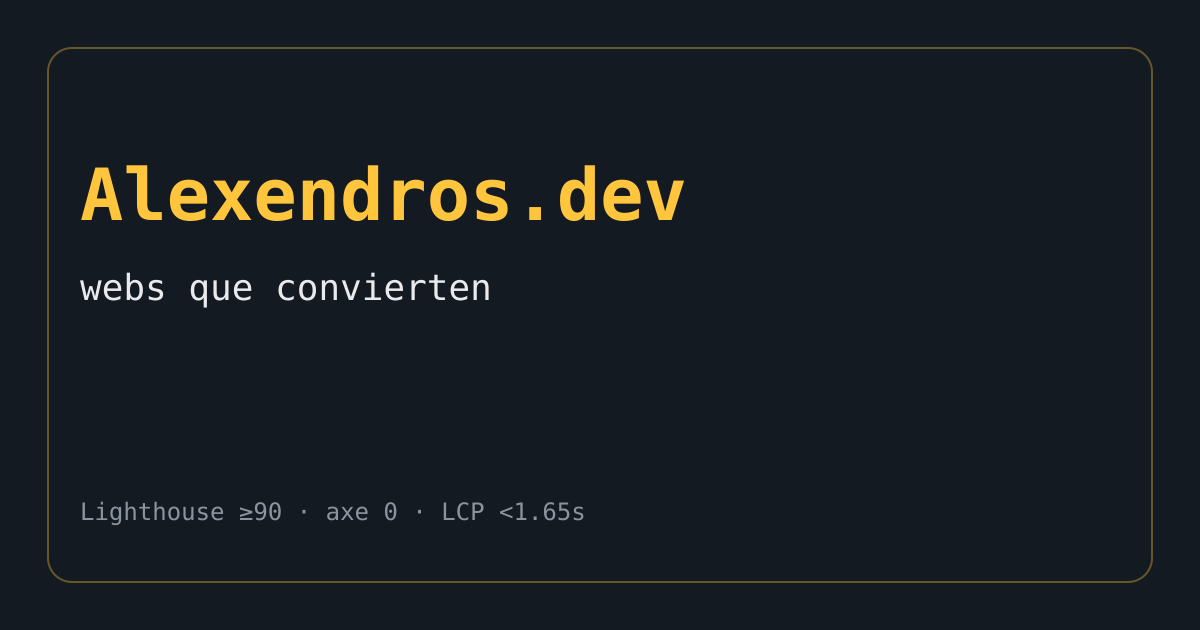
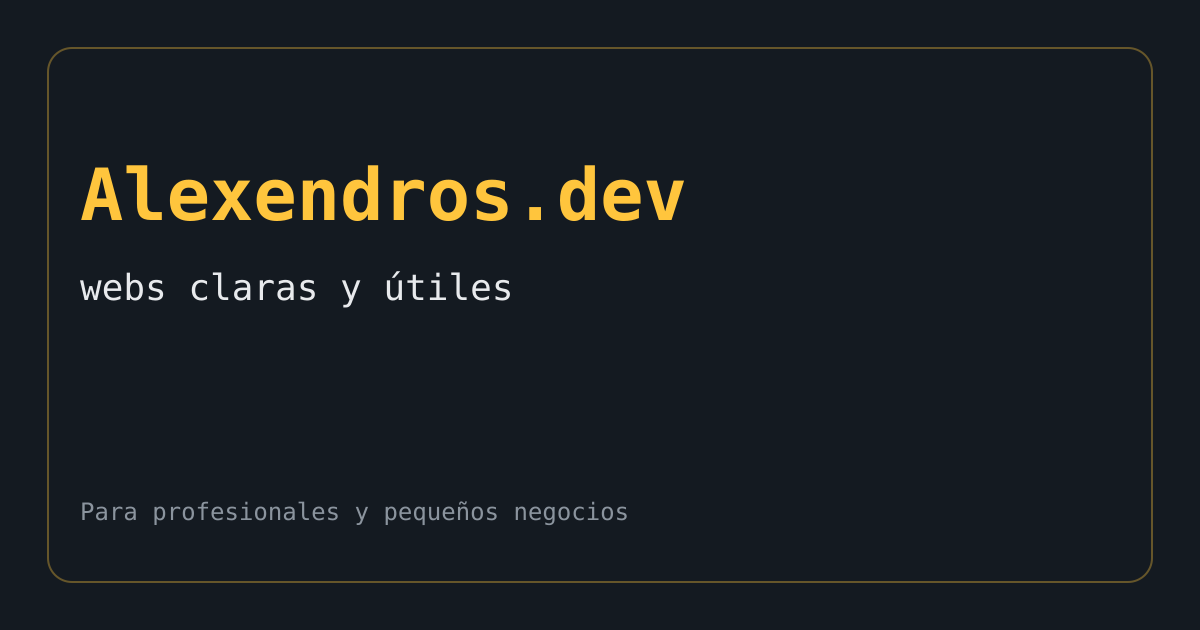
content: eliminar redundancias técnicas entre páginas

Changed region(s): [[0.0617, 0.7841, 0.5242, 0.8444], [0.1542, 0.4222, 0.4317, 0.4825]]

diff --git a/src/content/testimonials.ts b/src/content/testimonials.ts
@@ -16,7 +16,7 @@ export const testimonials: Testimonial[] = [
     company: 'Front Valencia',
     role: 'Fundadora',
     quote:
-      'Pasamos de un WordPress lento a una web que convierte. Las reservas subieron y el LCP dejó de ser un problema.',
+      'Pasamos de una web lenta a una que explica bien lo que hacemos. Las reservas subieron y el equipo puede actualizar el menú sin complicaciones.',
     photo: '/testimonials/placeholder-1.svg'
   },
   {
@@ -24,15 +24,15 @@ export const testimonials: Testimonial[] = [
     company: 'Gráficas Nasve',
     role: 'Director operaciones',
     quote:
-      'El presupuesto en minutos cambió el negocio. Pedidos claros, Stripe fiable y cero fricción con el equipo.',
+      'El presupuesto en minutos cambió el negocio. Pedidos claros, pagos fiables y cero fricción con el equipo.',
     photo: '/testimonials/placeholder-2.svg'
   },
   {
     name: 'Ana Vega',
     company: 'Studio Norte',
-    role: 'CTO',
+    role: 'Responsable de producto',
     quote:
-      'La auditoría priorizó lo que importaba. Informe accionable, axe en verde y un plan que el equipo pudo ejecutar.',
+      'La revisión priorizó lo que importaba. Informe claro y un plan que el equipo pudo ejecutar sin rodeos.',
     photo: '/testimonials/placeholder-3.svg'
   }
 ];

diff --git a/src/content/profile.ts b/src/content/profile.ts
@@ -15,7 +15,6 @@ export const profile = {
     'Entregas revisadas antes de publicar',
     'Comunicación directa, sin intermediarios'
   ],
-  stackPills: [] as string[],
   method: [
     {
       step: 1,
